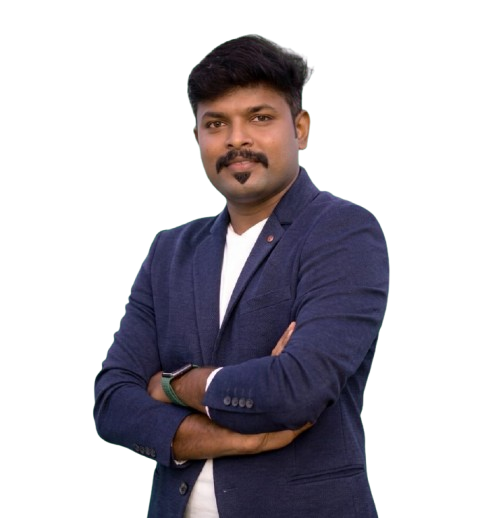
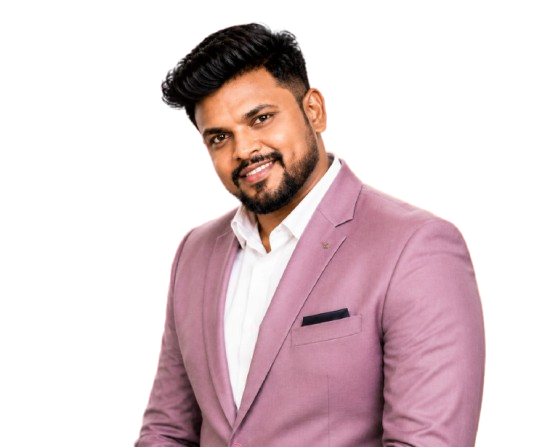
payment

diff --git a/src/pages/Team.jsx b/src/pages/Team.jsx
@@ -23,7 +23,7 @@ export default function Team() {
     {
       name: "Arunkumar S",
       role: "Founder & CEO",
-      image: "/images/fo.png",
+      image: "/images/fo.jpeg",
       icon: Rocket,
       desc: "Building the future of AI-powered live commerce.",
     },
@@ -34,20 +34,7 @@ export default function Team() {
       icon: Brain,
       desc: "Designing AI Twin flows for creators, brands and agencies.",
     },
-    {
-      name: "Engineering Team",
-      role: "Frontend & Backend",
-      image: "/images/2.jpeg",
-      icon: Code2,
-      desc: "Developing scalable dashboards, live tools and AI integrations.",
-    },
-    {
-      name: "Design Team",
-      role: "UI/UX & Brand",
-      image: "/images/3.jpeg",
-      icon: Palette,
-      desc: "Creating clean, premium and conversion-focused experiences.",
-    },
+    
   ];
 
   const values = [